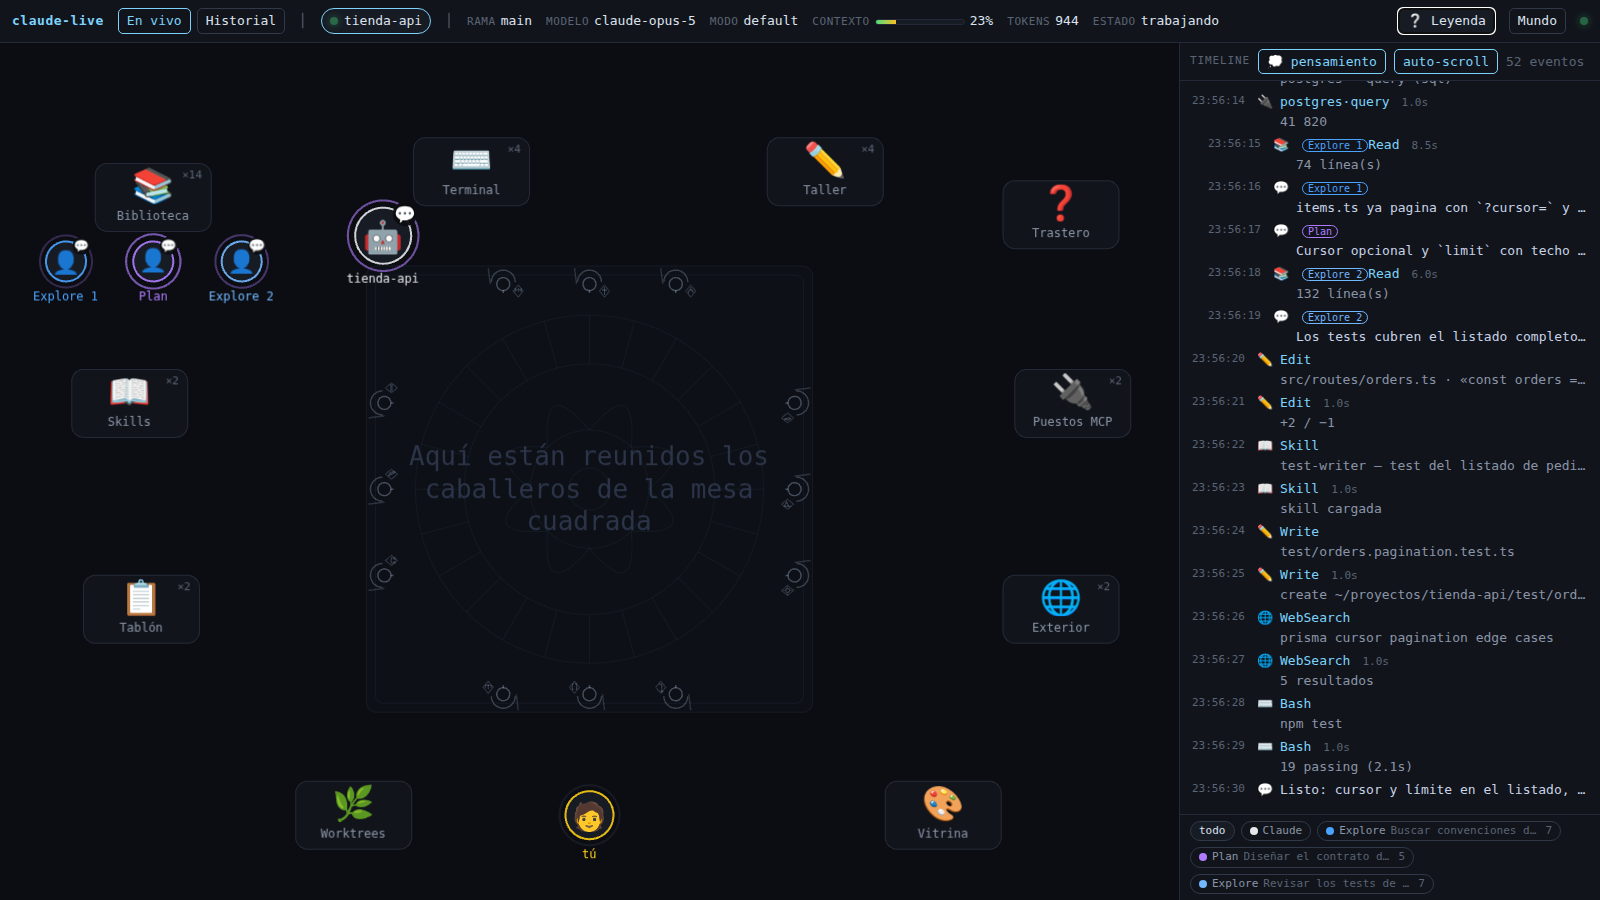
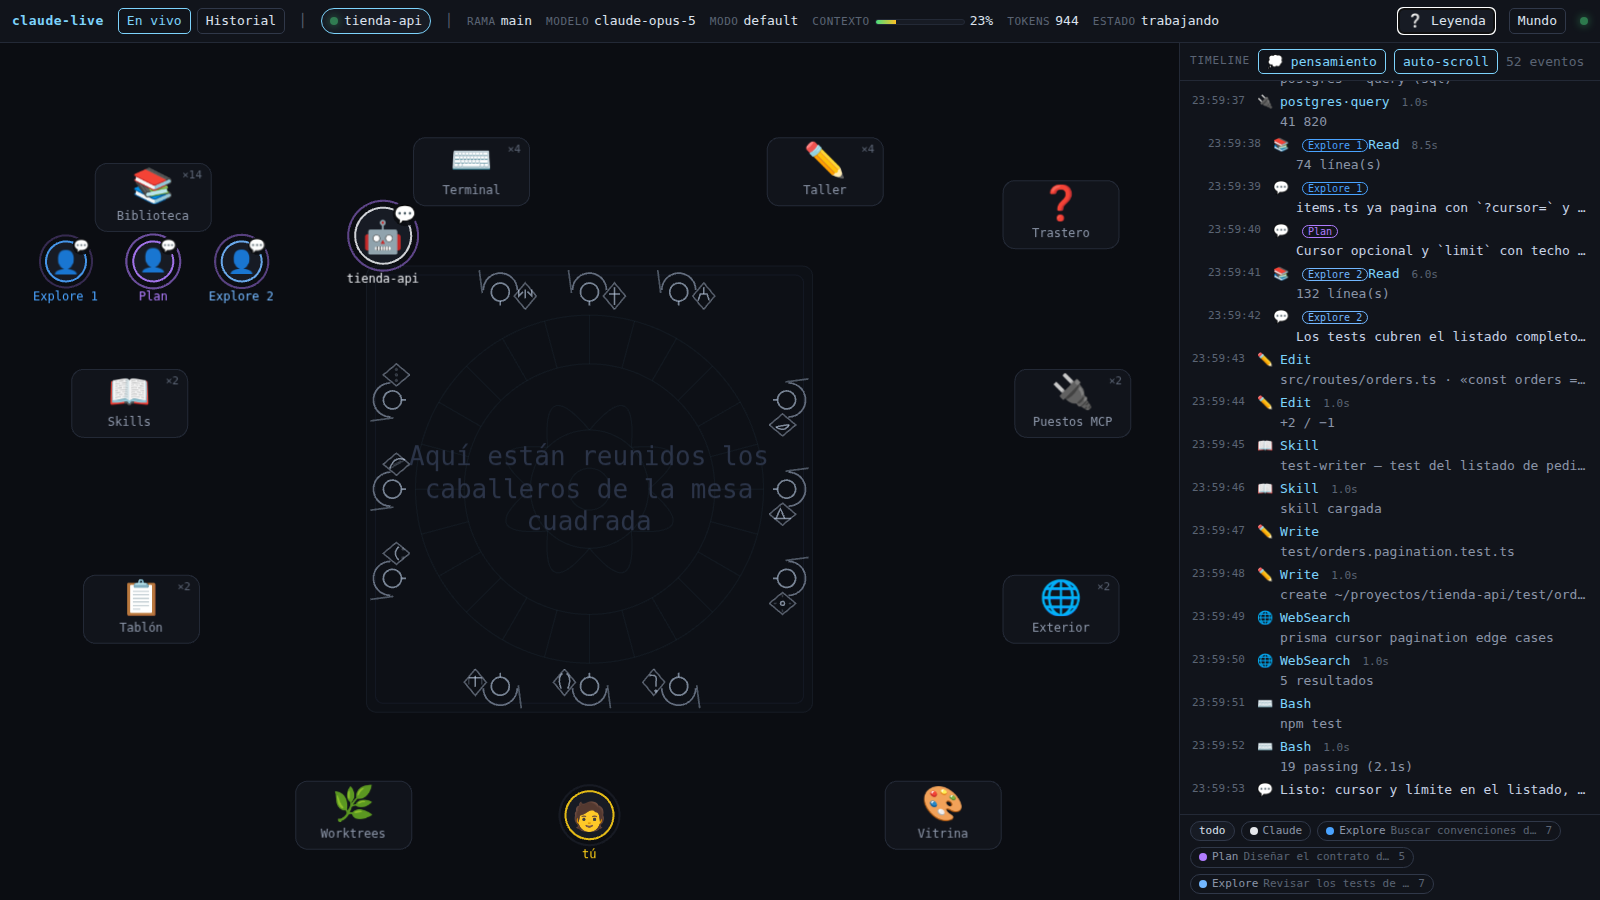
Caballeros y escudos al tamaño en que de verdad se ven
Estaban dibujados como filigrana y no se distinguían sin acercar la nariz a la
pantalla: el casco pasa de 6,5 a 9 px de radio, la espalda de 12 a 17, el escudo
crece un 60 % y la opacidad sube de 0,28-0,34 a 0,5-0,62. El resaltado del cursor
llega ahora al triple del tamaño base y en dorado.

Los asientos se meten un poco más adentro del tablero y su zona sensible crece a
26 px, acorde con la figura.

diff --git a/web/src/world/Scene.ts b/web/src/world/Scene.ts
@@ -149,7 +149,7 @@ export class Scene {
       const hit = new Container()
       hit.on('pointerover', () => this.highlightKnight(index))
       hit.on('pointerout', () => this.highlightKnight(null))
-      this.makeHoverable(hit, new Circle(0, 0, 19), () => ({
+      this.makeHoverable(hit, new Circle(0, 0, 26), () => ({
         icon: '🛡',
         title: knight.name,
         body: knight.quip,
@@ -341,8 +341,8 @@ export class Scene {
   /** Caballeros sentados a los cuatro lados, mirando al centro. Tres por lado. */
   private drawKnights(cx: number, cy: number, half: number): void {
     const perSide = 3
-    const inset = half - 16
-    const spread = half * 0.58
+    const inset = half - 24
+    const spread = half * 0.6
 
     for (let side = 0; side < 4; side++) {
       // 0 arriba, 1 derecha, 2 abajo, 3 izquierda. `toCentre` es hacia dónde miran.
@@ -376,9 +376,9 @@ export class Scene {
   ): void {
     const g = this.deskZone
     const line = {
-      width: highlighted ? 1.8 : 1.4,
-      color: highlighted ? 0xdde3ee : 0xa8bcd8,
-      alpha: highlighted ? 0.85 : 0.28,
+      width: highlighted ? 2.2 : 1.7,
+      color: highlighted ? 0xdde3ee : 0xb8c9e2,
+      alpha: highlighted ? 0.9 : 0.5,
     } as const
     const ox = Math.cos(toCentre)
     const oy = Math.sin(toCentre)
@@ -389,22 +389,22 @@ export class Scene {
     const to = back + Math.PI / 2
 
     // Espalda y hombros.
-    g.moveTo(x + Math.cos(from) * 12, y + Math.sin(from) * 12)
-      .arc(x, y, 12, from, to)
+    g.moveTo(x + Math.cos(from) * 17, y + Math.sin(from) * 17)
+      .arc(x, y, 17, from, to)
       .stroke(line)
     // Casco y cimera, mirando al tablero.
-    g.circle(x + ox * 2, y + oy * 2, 6.5).stroke({ ...line, alpha: 0.36 })
-    g.moveTo(x + ox * 8, y + oy * 8)
-      .lineTo(x + ox * 11, y + oy * 11)
-      .stroke({ ...line, alpha: 0.36 })
-    // Lanza apoyada en el hombro: corta, o se come la escena.
-    g.moveTo(x + px * 13 + ox * 2, y + py * 13 + oy * 2)
-      .lineTo(x + px * 15 - ox * 14, y + py * 15 - oy * 14)
-      .stroke({ ...line, alpha: 0.2 })
+    g.circle(x + ox * 2, y + oy * 2, 9).stroke({ ...line, alpha: highlighted ? 1 : 0.62 })
+    g.moveTo(x + ox * 11, y + oy * 11)
+      .lineTo(x + ox * 15.5, y + oy * 15.5)
+      .stroke({ ...line, alpha: highlighted ? 1 : 0.62 })
+    // Lanza apoyada en el hombro.
+    g.moveTo(x + px * 18 + ox * 3, y + py * 18 + oy * 3)
+      .lineTo(x + px * 21 - ox * 20, y + py * 21 - oy * 20)
+      .stroke({ ...line, alpha: highlighted ? 0.8 : 0.38 })
 
     // Escudo con su emblema, sobre el tablero.
     if (crest) {
-      this.drawCrest(crest, x - px * 16 + ox * 10, y - py * 16 + oy * 10, toCentre, highlighted)
+      this.drawCrest(crest, x - px * 25 + ox * 6, y - py * 25 + oy * 6, toCentre, highlighted)
     }
   }
 
@@ -421,16 +421,16 @@ export class Scene {
   ): void {
     const g = this.deskZone
     const ink = {
-      width: highlighted ? 1.6 : 1.1,
-      color: highlighted ? 0xffe6a3 : 0xa8bcd8,
-      alpha: highlighted ? 0.95 : 0.34,
+      width: highlighted ? 2 : 1.5,
+      color: highlighted ? 0xffe6a3 : 0xc3d3ea,
+      alpha: highlighted ? 0.98 : 0.62,
     } as const
     const ox = Math.cos(toCentre)
     const oy = Math.sin(toCentre)
     const px = -oy
     const py = ox
-    // El escudo crece al pasar el ratón: a tamaño normal son diez píxeles de filigrana.
-    const k = highlighted ? 2.1 : 1.35
+    // Grande de serie —diez píxeles no se veían— y todavía más al pasar el ratón.
+    const k = highlighted ? 3.1 : 2.2
     /** Punto local del emblema: `a` hacia el centro, `b` a lo ancho. */
     const at = (a: number, b: number): [number, number] => [
       x + ox * a * k + px * b * k,
@@ -443,7 +443,7 @@ export class Scene {
       .lineTo(...at(-6, 0))
       .lineTo(...at(0, -5))
       .lineTo(...at(6, 0))
-      .stroke({ ...ink, alpha: highlighted ? 0.7 : 0.22 })
+      .stroke({ ...ink, alpha: highlighted ? 0.8 : 0.4 })
 
     switch (crest) {
       case 'crown':
